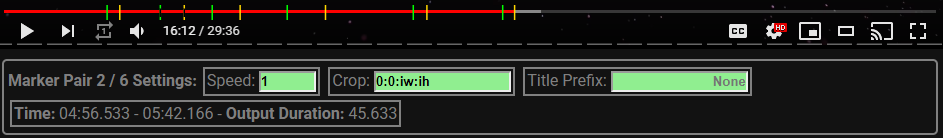
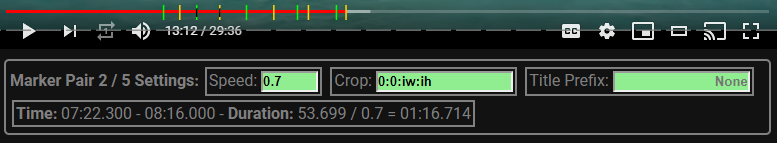
version: markup script v0.0.80

diff --git a/src/yt_clipper.ts b/src/yt_clipper.ts
@@ -1,7 +1,7 @@
 // ==UserScript==
 // @locale       english
 // @name         yt_clipper
-// @version      0.0.79
+// @version      0.0.80
 // @description  Add markers to youtube videos and generate clipped webms online or offline.
 // @author       elwm
 // @namespace    https://github.com/exwm

diff --git a/readme.md b/readme.md
@@ -108,8 +108,10 @@
 - Marker pair settings set to `Inherit` will get their value from the global settings.
 - Global settings set to `Inherit` will get their value from the command line options or the `yt_clipper_auto_all_options.bat` prompt.
 - See [Encoding Settings Guide](#encoding-settings-guide) for more information and tips about the possible settings.
-- Marker Pair Overrides: ![yt_clipper_marker_pair_editor_overrides](https://raw.githubusercontent.com/exwm/yt_clipper/master/assets/image/yt_clipper_marker_pair_editor_overrides.png)
-- Global Encode Settings: ![yt_clipper_globals_editor_additional_settings](https://raw.githubusercontent.com/exwm/yt_clipper/master/assets/image/yt_clipper_globals_editor_additional_settings.png)
+- Marker Pair Overrides:
+  - ![yt_clipper_marker_pair_editor_overrides](https://raw.githubusercontent.com/exwm/yt_clipper/master/assets/image/yt_clipper_marker_pair_editor_overrides.png)
+- Global Encode Settings: 
+  - ![yt_clipper_globals_editor_additional_settings](https://raw.githubusercontent.com/exwm/yt_clipper/master/assets/image/yt_clipper_globals_editor_additional_settings.png)
 
 **shift+E/D:** Update all existing markers to default new marker speed(**E**) or crop(**D**).
 
@@ -168,6 +170,7 @@
 - Opens a pop-up window where captured frames are saved.
   - **Download** and **Delete** buttons are provided above each captured frame.
   - You may need to allow pop-ups from `youtube.com` in your browser settings.
+  ![yt_clipper_frame_capturer](https://raw.githubusercontent.com/exwm/yt_clipper/master/assets/image/yt_clipper_frame_capturer.png)
 
 **alt+shift+Q** Trigger zipping of all captured frames for download.
 
@@ -183,7 +186,7 @@
 **G:** Toggle markers `json` file upload for reloading markers (must be from the same video).
 
 - Click `Choose File`, pick your markers `json` file, then click `Load`.
-  ![yt_clipper_load_markers](https://raw.githubusercontent.com/exwm/yt_clipper/master/assets/image/yt_clipper_load_markers.png)
+  - ![yt_clipper_load_markers](https://raw.githubusercontent.com/exwm/yt_clipper/master/assets/image/yt_clipper_load_markers.png)
 
 **alt+C:** Upload anonymously to gfycat.
 
@@ -243,7 +246,7 @@
 ### Gamma Correction
 
 - Play around with the `gamma` setting to bring back shadow or highlight detail.
-- Use **alt=shift+G** to preview `gamma values` with the `markup script`.
+- Use **alt+shift+G** to preview `gamma values` with the `markup script`.
 - A value of 1 does nothing. Use a value between 0 and 1 to bring back shadow detail and a value greater than 1 to bring back highlight detail.
 - Refer to this [gamma correction guide](https://www.cambridgeincolour.com/tutorials/gamma-correction.htm) for more details.
 
@@ -312,10 +315,15 @@ These dependencies are not required by the windows installation above.
 
 ## Markup Script Changelog
 
-- v0.0.79
-
+- v0.0.80
   - <a href="https://openuserjs.org/install/elwm/yt_clipper.user.js">Click to install markup script</a>
   - Use with `v3.4.1` of the `clipper script` installation. See [Clipper Script Installation](#clipper-script-installation).
+  - Add cropping of **alt+Q** captured video frames based on currently selected marker pair's crop.
+  - Fix speed adjusted marker pair duration not updating on speed change.
+  - Add duration before speed adjustment to marker pair editor.
+
+- v0.0.79
+
   - Add automatic disabling of browser default and add-on hotkeys when yt_clipper hotkeys are enabled.
   - Add activation of yt_clipper on all YouTube pages and load yt_clipper on navigation to a video.
     - Still requires refreshing the browser when navigating to a new video.

diff --git a/changelog.md b/changelog.md
@@ -2,10 +2,15 @@
 
 ## Markup Script Changelog
 
+- v0.0.80
+  - Use with `v3.4.1` of the `clipper script` installation.
+  - Add cropping of **alt+Q** captured video frames based on currently selected marker pair's crop.
+  - Fix speed adjusted marker pair duration not updating on speed change.
+  - Add duration before speed adjustment to marker pair editor.
+
 - v0.0.79
 
-  - <a href="https://openuserjs.org/install/elwm/yt_clipper.user.js">Click to install markup script</a>
-  - Use with `v3.4.1` of the `clipper script` installation. See [Clipper Script Installation](#clipper-script-installation).
+  - Use with `v3.4.1` of the `clipper script` installation.
   - Add automatic disabling of browser default and add-on hotkeys when yt_clipper hotkeys are enabled.
   - Add activation of yt_clipper on all YouTube pages and load yt_clipper on navigation to a video.
     - Still requires refreshing the browser when navigating to a new video.
